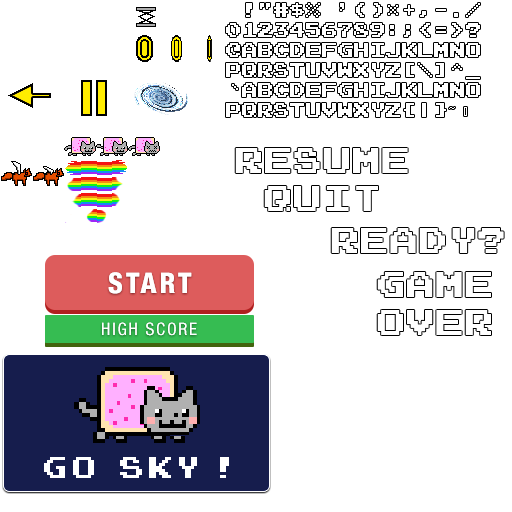
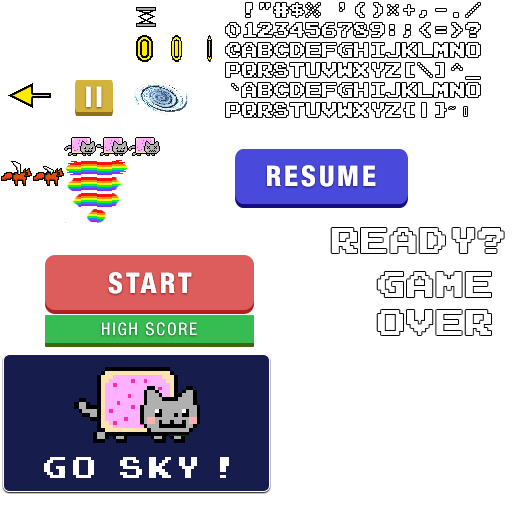
implement hit top. X. Pause to music

Changed region(s): [[0.4375, 0.2812, 0.8125, 0.4375], [0.125, 0.1562, 0.2188, 0.25]]

diff --git a/GoSky/src/main/java/com/qthstudios/game/gosky/screencast/GameScreen.java b/GoSky/src/main/java/com/qthstudios/game/gosky/screencast/GameScreen.java
@@ -35,7 +35,6 @@ public class GameScreen extends GLScreen {
     WorldRenderer renderer;
     Rectangle pauseBounds;
     Rectangle resumeBounds;
-    Rectangle quitBounds;
     int lastScore;
     String scoreString;    
     FPSCounter fpsCounter;
@@ -45,7 +44,7 @@ public class GameScreen extends GLScreen {
         state = GAME_READY;
         guiCam = new Camera2D(glGraphics, 320, 480);
         touchPoint = new Vector2();
-        batcher = new SpriteBatcher(glGraphics, 1000);
+        batcher = new SpriteBatcher(glGraphics, 5000); // 5 thousands sprite per batch~
         worldListener = new WorldListener() {
             @Override
             public void jump() {            
@@ -70,14 +69,18 @@ public class GameScreen extends GLScreen {
 
             @Override
             public void coin() {
-                Assets.playSound(Assets.coinSound);
-            }                      
+                Assets.playSound(Assets.hitTopSound);
+            }
+
+            @Override
+            public void hitTop() {
+                Assets.playSound(Assets.hitTopSound);
+            }
         };
         world = new World(worldListener);
         renderer = new WorldRenderer(glGraphics, batcher, world);
         pauseBounds = new Rectangle(320- 64, 480- 64, 64, 64);
-        resumeBounds = new Rectangle(160 - 96, 240, 192, 36);
-        quitBounds = new Rectangle(160 - 96, 240 - 36, 192, 36);
+        resumeBounds = new Rectangle(160 - 96, 200, 192, 72);
         lastScore = 0;
         scoreString = "0";
         fpsCounter = new FPSCounter();
@@ -126,6 +129,12 @@ public class GameScreen extends GLScreen {
 	        
 	        if(OverlapTester.pointInRectangle(pauseBounds, touchPoint)) {
 	            Assets.playSound(Assets.clickSound);
+                if (Assets.nyan1.isPlaying()) {
+                    Assets.nyan1.pause();
+                }
+                if (Assets.nyan2.isPlaying()) {
+                    Assets.nyan2.pause();
+                }
 	            state = GAME_PAUSED;
 	            return;
 	        }            
@@ -164,14 +173,13 @@ public class GameScreen extends GLScreen {
 	        if(OverlapTester.pointInRectangle(resumeBounds, touchPoint)) {
 	            Assets.playSound(Assets.clickSound);
 	            state = GAME_RUNNING;
+                if (Assets.nyan1.getCurrentSeekPosition() > 0) {
+                    Assets.nyan1.resume();
+                }
+                if (Assets.nyan2.getCurrentSeekPosition() > 0) {
+                    Assets.nyan2.resume();
+                }
 	            return;
-	        }
-	        
-	        if(OverlapTester.pointInRectangle(quitBounds, touchPoint)) {
-	            Assets.playSound(Assets.clickSound);
-	            game.setScreen(new MainScreen(game));
-	            return;
-	        
 	        }
 	    }
 	}
@@ -254,7 +262,7 @@ public class GameScreen extends GLScreen {
 	    batcher.drawSprite(160, 240, 192, 96, Assets.pauseMenu);
         float scoreWidth = Assets.font.glyphWidth * scoreString.length();
 	    Assets.font.drawText(batcher, scoreString, 160 - scoreWidth / 2, 480-80, 2);
-	}
+    }
 	
 	private void presentLevelEnd() {
 	    String topText = "oh no! this is...";

diff --git a/GoSky/src/main/java/com/qthstudios/game/gosky/model/World.java b/GoSky/src/main/java/com/qthstudios/game/gosky/model/World.java
@@ -21,6 +21,8 @@ public class World {
         public void hit();
 
         public void coin();
+
+        public void hitTop();
     }
 
     public static final float WORLD_WIDTH = 10;
@@ -221,25 +223,29 @@ public class World {
     }
 
     private void checkPlatformCollisions() {
-        if (bob.velocity.y > 0)
-            return;
+//        if (bob.velocity.y == 0)
+//            return;
 
         int len = platforms.size();
         for (int i = 0; i < len; i++) {
             Platform platform = platforms.get(i);
-            if (bob.position.y > platform.position.y) {
                 if (OverlapTester
                         .overlapRectangles(bob.bounds, platform.bounds)) {
-                    bob.hitPlatform();
-                    listener.jump();
-                    // Destroy after touch
-                    platform.pulverize();
-//                    if (rand.nextFloat() > 0.5f) {
-//                        platform.pulverize();
-//                    }
+                    if (bob.position.y > platform.position.y) {
+                        Log.e("TRUNGDQ", "UP:       bob y: " + bob.position.y + " | platform y: " + platform.position.y);
+                        bob.position.y = platform.position.y + platform.bounds.height / 2 + bob.bounds.height / 2 - 0.1f;
+                        bob.hitPlatform();
+                        listener.jump();
+                        // Destroy after touch
+                        platform.pulverize();
+                    } else if (bob.position.y <= platform.position.y) {
+                        Log.e("TRUNGDQ", "DOWN:     bob y: " + bob.position.y + " | platform y: " + platform.position.y);
+                        bob.position.y = platform.position.y - platform.bounds.height / 2 - bob.bounds.height / 2 - 0.1f;
+                        bob.hitPlatformTop();
+                        listener.hitTop();
+                    }
                     break;
                 }
-            }
         }
     }
 

diff --git a/GoSky/src/main/java/com/qthstudios/game/gosky/framework/impl/AndroidMusic.java b/GoSky/src/main/java/com/qthstudios/game/gosky/framework/impl/AndroidMusic.java
@@ -5,12 +5,15 @@ import java.io.IOException;
 import android.content.res.AssetFileDescriptor;
 import android.media.MediaPlayer;
 import android.media.MediaPlayer.OnCompletionListener;
+import android.util.Log;
+
 import com.qthstudios.game.gosky.framework.Music;
 
 public class AndroidMusic implements Music, OnCompletionListener {
     MediaPlayer mediaPlayer;
     boolean isPrepared = false;
     MusicEndListener musicEndListener;
+
     public AndroidMusic(AssetFileDescriptor assetDescriptor) {
         mediaPlayer = new MediaPlayer();
         try {
@@ -59,8 +62,14 @@ public class AndroidMusic implements Music, OnCompletionListener {
 
     @Override
     public void pause() {
-        if (mediaPlayer.isPlaying())
+        if (mediaPlayer.isPlaying()) {
             mediaPlayer.pause();
+        }
+    }
+
+    @Override
+    public int getCurrentSeekPosition() {
+        return mediaPlayer.getCurrentPosition();
     }
 
     @Override
@@ -81,6 +90,14 @@ public class AndroidMusic implements Music, OnCompletionListener {
             e.printStackTrace();
         }
     }
+    @Override
+    public void resume() {
+        try {
+            mediaPlayer.start();
+        } catch (Exception e) {
+            e.printStackTrace();
+        }
+    }
 
     @Override
     public void setLooping(boolean isLooping) {
@@ -94,6 +111,7 @@ public class AndroidMusic implements Music, OnCompletionListener {
 
     @Override
     public void stop() {
+        mediaPlayer.seekTo(0);
         mediaPlayer.stop();
         synchronized (this) {
             isPrepared = false;

diff --git a/GoSky/src/main/java/com/qthstudios/game/gosky/config/Assets.java b/GoSky/src/main/java/com/qthstudios/game/gosky/config/Assets.java
@@ -49,7 +49,7 @@ public class Assets {
     public static Sound jumpSound;
     public static Sound highJumpSound;
     public static Sound hitSound;
-    public static Sound coinSound;
+    public static Sound hitTopSound;
     public static Sound clickSound;
     public static Music nyan2;
     public static Music nyan1;
@@ -129,7 +129,7 @@ public class Assets {
         jumpSound = game.getAudio().newSound("jump.ogg");
         highJumpSound = game.getAudio().newSound("highjump.ogg");
         hitSound = game.getAudio().newSound("hit.ogg");
-        coinSound = game.getAudio().newSound("coin.ogg");
+        hitTopSound = game.getAudio().newSound("hittop.wav");
         clickSound = game.getAudio().newSound("click.ogg");
         nyan1 = game.getAudio().newMusic("nyan1.mp3");
         nyan2 = game.getAudio().newMusic("nyan2.mp3");

diff --git a/GoSky/src/main/java/com/qthstudios/game/gosky/model/WorldRenderer.java b/GoSky/src/main/java/com/qthstudios/game/gosky/model/WorldRenderer.java
@@ -111,6 +111,10 @@ public class WorldRenderer {
             angle = (float) (- 90 - Math.toDegrees(Math.atan(1 / r)));
         }
 
+        if (world.bob.velocity.x == 0) {
+            angle = 90 * (world.bob.velocity.y > 0 ? 1 : -1);
+        }
+
         // angle += 45* side;
         batcher.drawSprite(world.bob.position.x, world.bob.position.y, 1.3f , side * 1.3f, angle, keyFrame);
     }

diff --git a/GoSky/src/main/java/com/qthstudios/game/gosky/framework/Music.java b/GoSky/src/main/java/com/qthstudios/game/gosky/framework/Music.java
@@ -1,11 +1,15 @@
 package com.qthstudios.game.gosky.framework;
 
 public interface Music {
+    int getCurrentSeekPosition();
+
     public void play();
 
     public void stop();
 
     public void pause();
+
+    public void resume();
 
     public void setLooping(boolean looping);
 

diff --git a/GoSky/src/main/java/com/qthstudios/game/gosky/model/Bob.java b/GoSky/src/main/java/com/qthstudios/game/gosky/model/Bob.java
@@ -66,4 +66,9 @@ public class Bob extends DynamicGameObject {
         state = BOB_STATE_JUMP;
         stateTime = 0;
     }
+
+    public void hitPlatformTop() {
+        velocity.y = 0;
+        state = BOB_STATE_JUMP;
+    }
 }

diff --git a/GoSky/src/main/java/com/qthstudios/game/gosky/screen/GoSky.java b/GoSky/src/main/java/com/qthstudios/game/gosky/screen/GoSky.java
@@ -35,7 +35,6 @@ public class GoSky extends GLGame {
     @Override
     public void onPause() {
         super.onPause();
-        System.exit(0);
     }
 
     @Override
